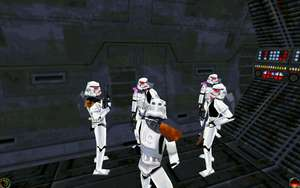
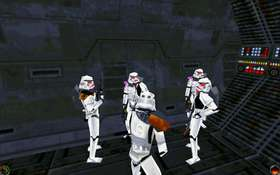
resized post images

diff --git a/blog/_posts/2012-02-17-jedi-knight-dark-forces-ii-a-coding-retrospective.md b/blog/_posts/2012-02-17-jedi-knight-dark-forces-ii-a-coding-retrospective.md
@@ -115,7 +115,7 @@ game, according to its own system requirements analyzer:
 
 <div class="centered">
 
-<a href="/img/posts/jk/jk-analyzer.png"><img src="/img/posts/jk/thumb/jk-analyzer.jpg" alt="Analyzer" /></a>
+<a href="/img/posts/jk/jk-analyzer.png"><img src="/img/posts/jk/thumb/jk-analyzer.jpg" alt="Analyzer" width="280" height="242" /></a>
 <p>Though it was incorrect about the "Windows 95" part.</p>
 
 </div>
@@ -126,7 +126,7 @@ install it on a 64-bit Windows (virtual) machine.
 
 <div class="centered">
 
-<a href="/img/posts/jk/jk-screenshot.png"><img src="/img/posts/jk/thumb/jk-screenshot.jpg" alt="Cinematic Screenshot"/></a>
+<a href="/img/posts/jk/jk-screenshot.png"><img src="/img/posts/jk/thumb/jk-screenshot.jpg" alt="Cinematic Screenshot" width="280" height="132" /></a>
 <p>Ah, nostalgia.</p>
 
 </div>
@@ -135,33 +135,33 @@ Getting any new level up and running is typically as simple as placing the .gob 
 
 <div class="columns">
 
-<a href="/img/posts/jk/002.png"><img src="/img/posts/jk/thumb/002.jpg" alt="Screenshot 1" /></a>
+<a href="/img/posts/jk/002.png"><img src="/img/posts/jk/thumb/002.jpg" alt="Screenshot 1" width="280" height="175" /></a>
 <p>Completely forgot about the in-game menu system (so you could bypass
 the rather dry "Story" cutscene I included, among other things).</p>
 
-<a href="/img/posts/jk/007.png"><img src="/img/posts/jk/thumb/007.jpg" alt="Screenshot 2" /></a>
+<a href="/img/posts/jk/007.png"><img src="/img/posts/jk/thumb/007.jpg" alt="Screenshot 2" width="280" height="175" /></a>
 <p>A planetarium. On a star destroyer, for some reason.</p>
 
-<a href="/img/posts/jk/008.png"><img src="/img/posts/jk/thumb/008.jpg" alt="Screenshot 3" /></a>
+<a href="/img/posts/jk/008.png"><img src="/img/posts/jk/thumb/008.jpg" alt="Screenshot 3" width="280" height="175" /></a>
 <p>The aforementioned zoo.</p>
 
-<a href="/img/posts/jk/011.png"><img src="/img/posts/jk/thumb/011.jpg" alt="Screenshot 4" /></a>
+<a href="/img/posts/jk/011.png"><img src="/img/posts/jk/thumb/011.jpg" alt="Screenshot 4" width="280" height="175" /></a>
 <p>Oddly, I also included a kitchen. Complete with an oven you have to
 crawl into to complete a mission objective.</p>
 
-<a href="/img/posts/jk/019.png"><img src="/img/posts/jk/thumb/019.jpg" alt="Screenshot 5" /></a>
+<a href="/img/posts/jk/019.png"><img src="/img/posts/jk/thumb/019.jpg" alt="Screenshot 5" width="280" height="175" /></a>
 <p>The obligatory "dress up as the enemy to get through a checkpoint"
 plot point.</p>
 
-<a href="/img/posts/jk/024.png"><img src="/img/posts/jk/thumb/024.jpg" alt="Screenshot 6" /></a>
+<a href="/img/posts/jk/024.png"><img src="/img/posts/jk/thumb/024.jpg" alt="Screenshot 6" width="280" height="175" /></a>
 <p>A sewer at the bottom of a detention center. Even star destroyers have
 to take care of their waste somehow.</p>
 
-<a href="/img/posts/jk/027.png"><img src="/img/posts/jk/thumb/027.jpg" alt="Screenshot 7" /></a>
+<a href="/img/posts/jk/027.png"><img src="/img/posts/jk/thumb/027.jpg" alt="Screenshot 7" width="280" height="175" /></a>
 <p>Grand Admiral Thrawn himself, wielding a phaser. And fairly deadly at
 that--I died a dozen times or so before beating him.</p>
 
-<a href="/img/posts/jk/035.png"><img src="/img/posts/jk/thumb/035.jpg" alt="Screenshot 8" /></a>
+<a href="/img/posts/jk/035.png"><img src="/img/posts/jk/thumb/035.jpg" alt="Screenshot 8" width="280" height="175" /></a>
 <p>Barney makes an appearance. And yes, you can obliterate him.</p>
 
 </div>
